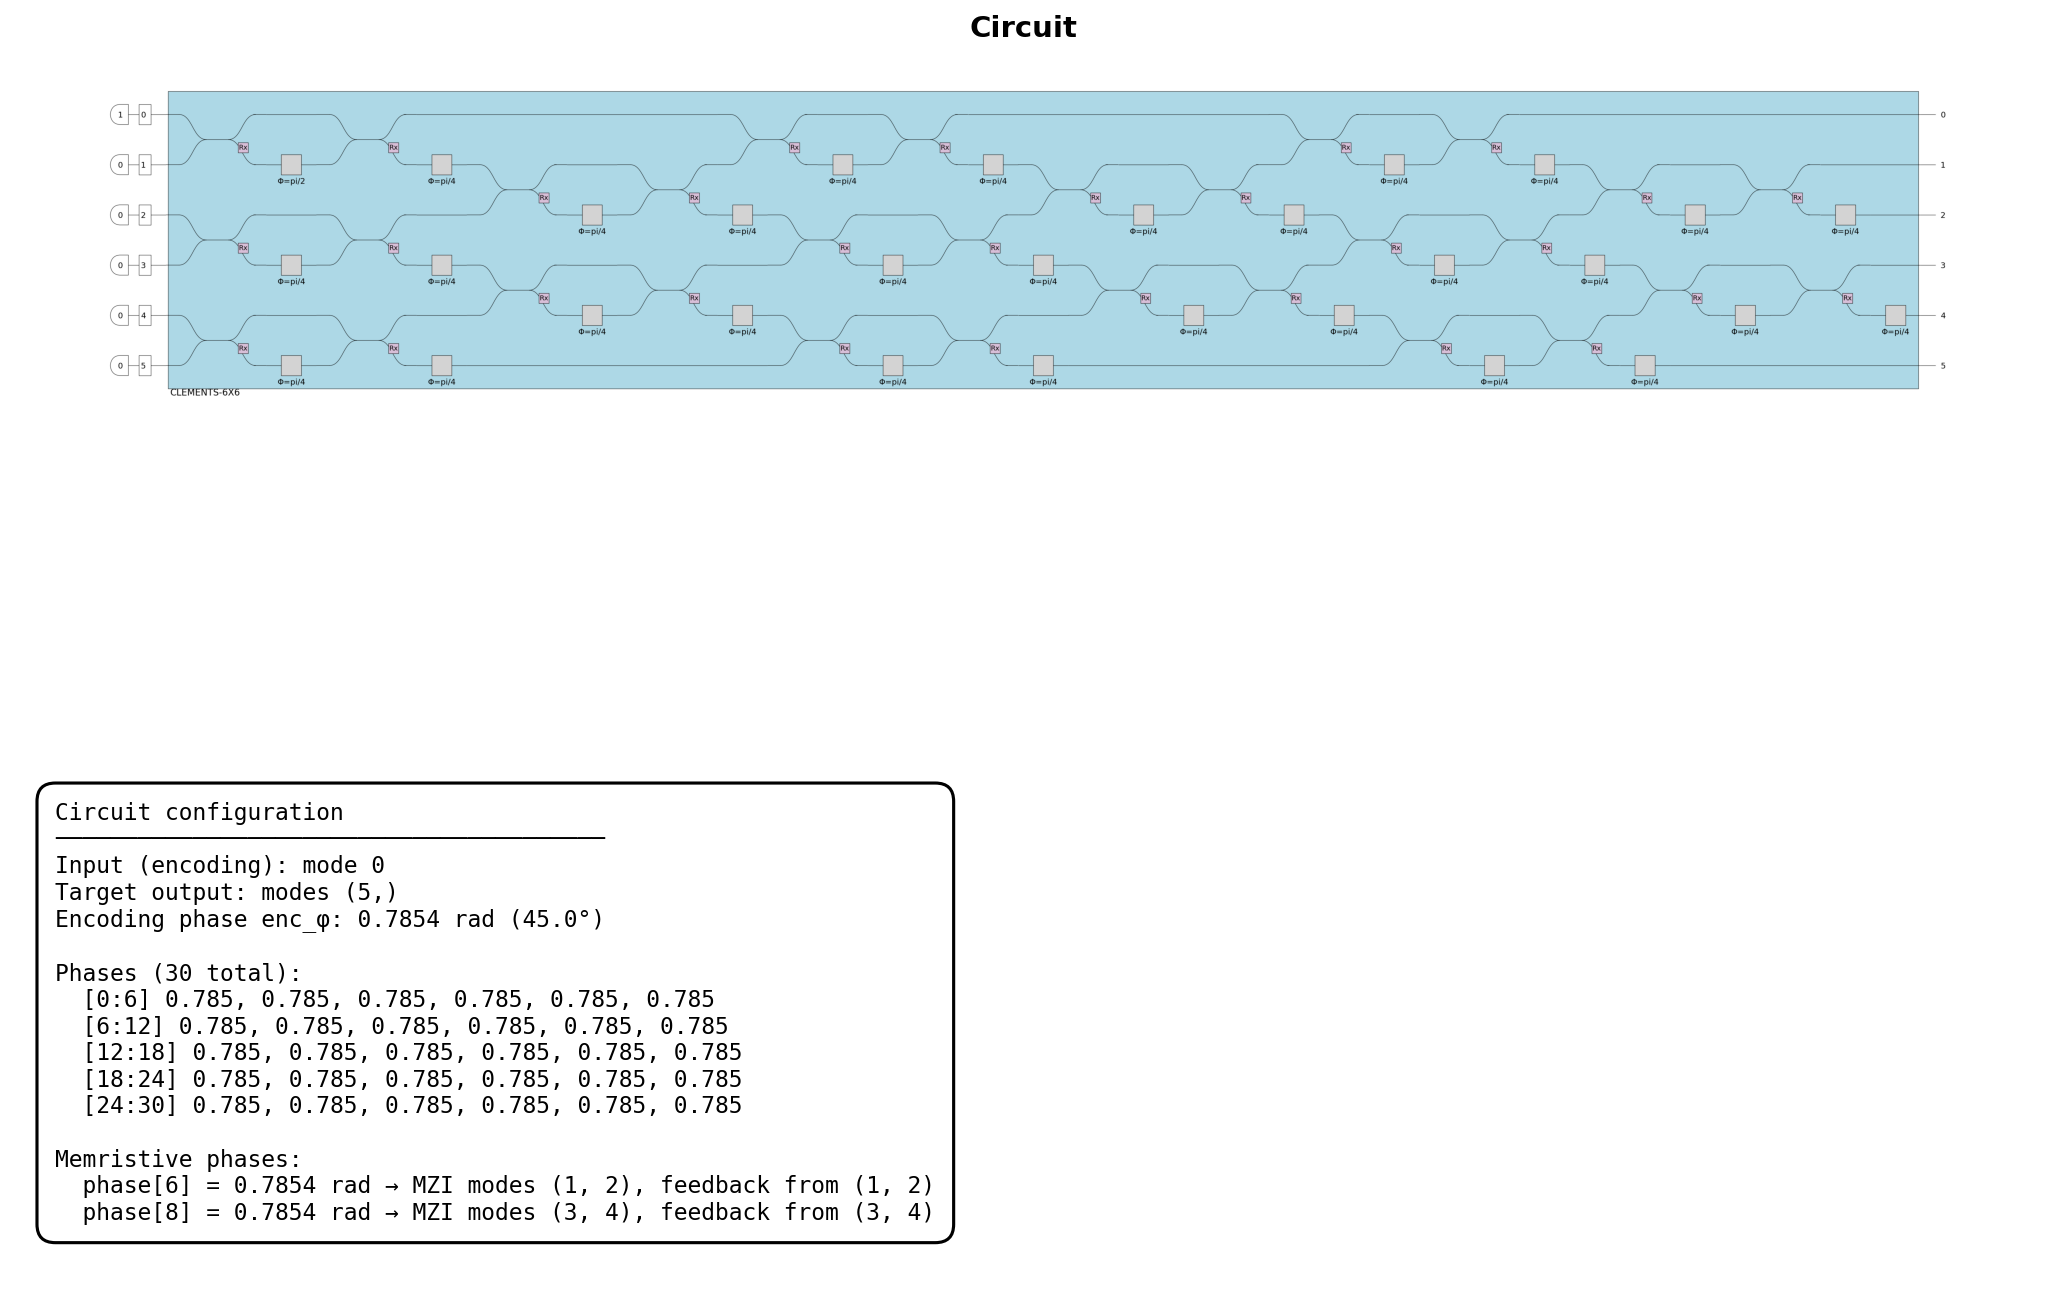
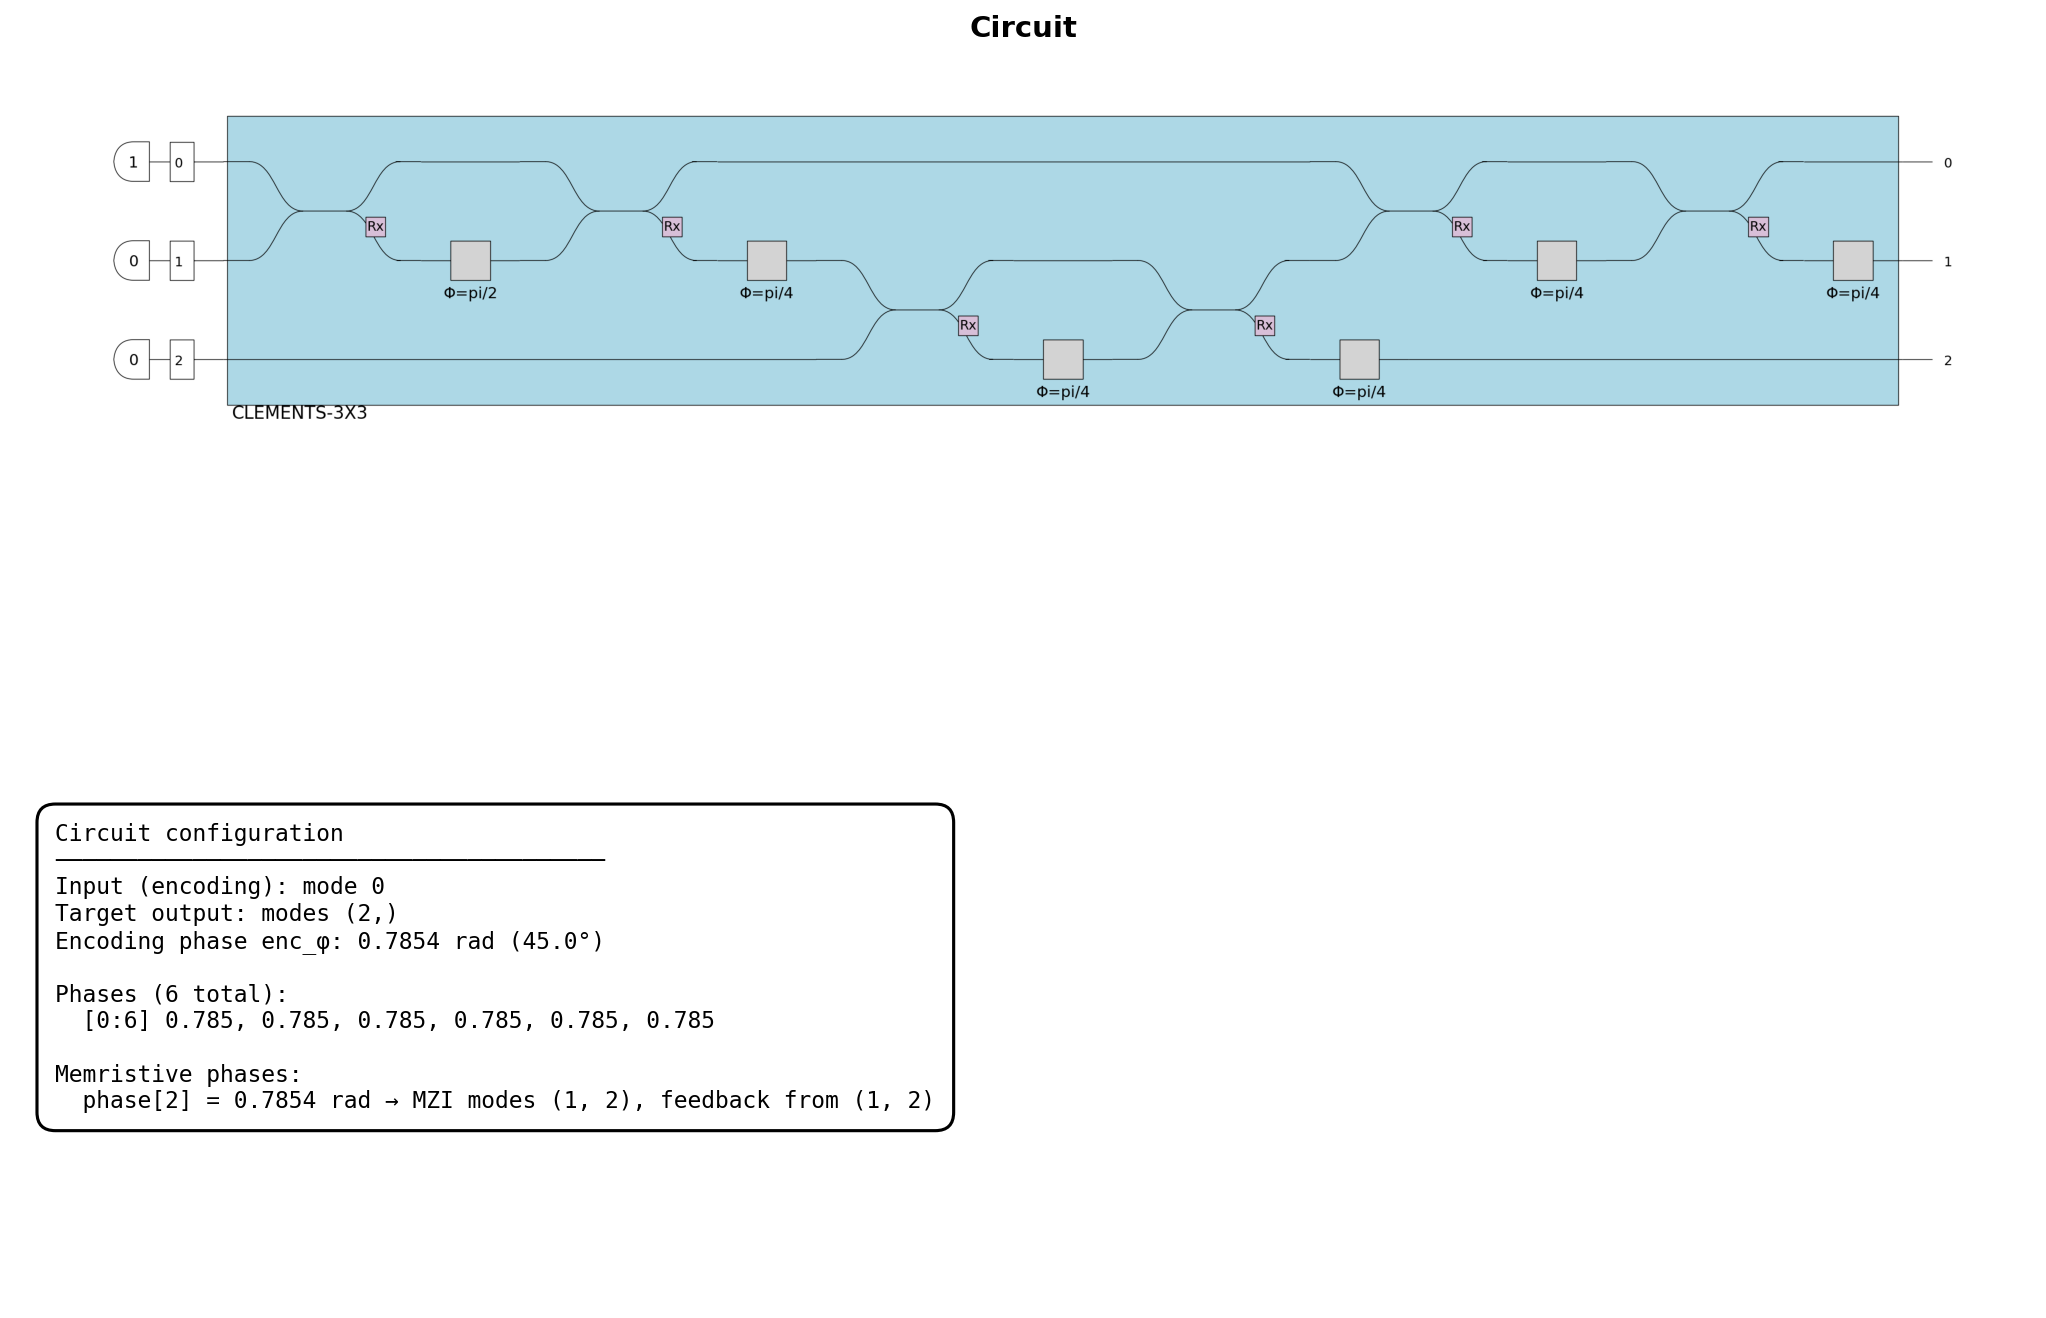
Update quartic regression example and images
- Modified `quartic_regression_comparison.py` to adjust the number of modes and output modes for memristive phases.
- Updated associated images: `quartic_circuit_annotated.png`, `quartic_regression_comparison.png`, and `quartic_regression_loss_comparison.png` to reflect recent changes in the circuit configuration.

diff --git a/examples/quartic_regression_comparison.py b/examples/quartic_regression_comparison.py
@@ -29,12 +29,22 @@ from src.utils import config
 from src.circuit_visualization import save_circuit_annotated
 
 
+# # 6x6 Clements: 4th MZI = phases 6,7 (modes 1,2) | 5th MZI = phases 8,9 (modes 3,4)
+# N_MODES = 6
+# MEMRISTIVE_PHASE_IDX = [6, 8]  # 4th and 5th MZI (first phase of each)
+# # Custom output modes for feedback: (mode_p1, mode_p2) per memristive phase.
+# # Default (None) uses each MZI's own output modes. Example: [(1, 2), (3, 4)]
+# MEMRISTIVE_OUTPUT_MODES = [(1, 2), (3, 4)]  # 4th MZI outputs, 5th MZI outputs
+# VERBOSE = True  # Set True for per-epoch loss and parameter printing
+# #TODO: print gradient methods (consistent?)
+# #TODO: desfault psr? 
+
 # 6x6 Clements: 4th MZI = phases 6,7 (modes 1,2) | 5th MZI = phases 8,9 (modes 3,4)
-N_MODES = 6
-MEMRISTIVE_PHASE_IDX = [6, 8]  # 4th and 5th MZI (first phase of each)
+N_MODES = 3
+MEMRISTIVE_PHASE_IDX = [2]  # 4th and 5th MZI (first phase of each)
 # Custom output modes for feedback: (mode_p1, mode_p2) per memristive phase.
 # Default (None) uses each MZI's own output modes. Example: [(1, 2), (3, 4)]
-MEMRISTIVE_OUTPUT_MODES = [(1, 2), (3, 4)]  # 4th MZI outputs, 5th MZI outputs
+MEMRISTIVE_OUTPUT_MODES = [(1, 2)]  # 4th MZI outputs, 5th MZI outputs
 VERBOSE = True  # Set True for per-epoch loss and parameter printing
 #TODO: print gradient methods (consistent?)
 #TODO: desfault psr? 
